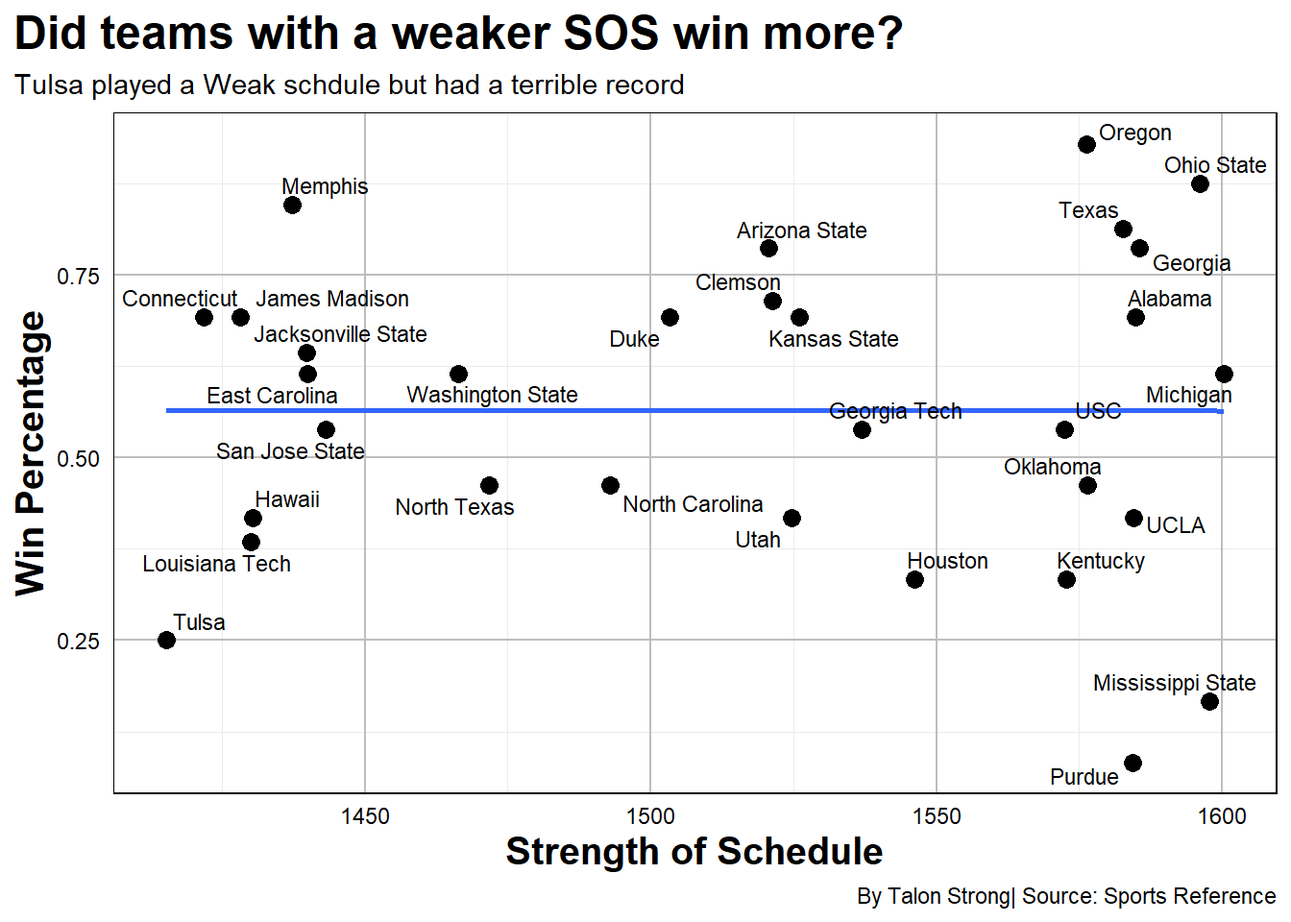
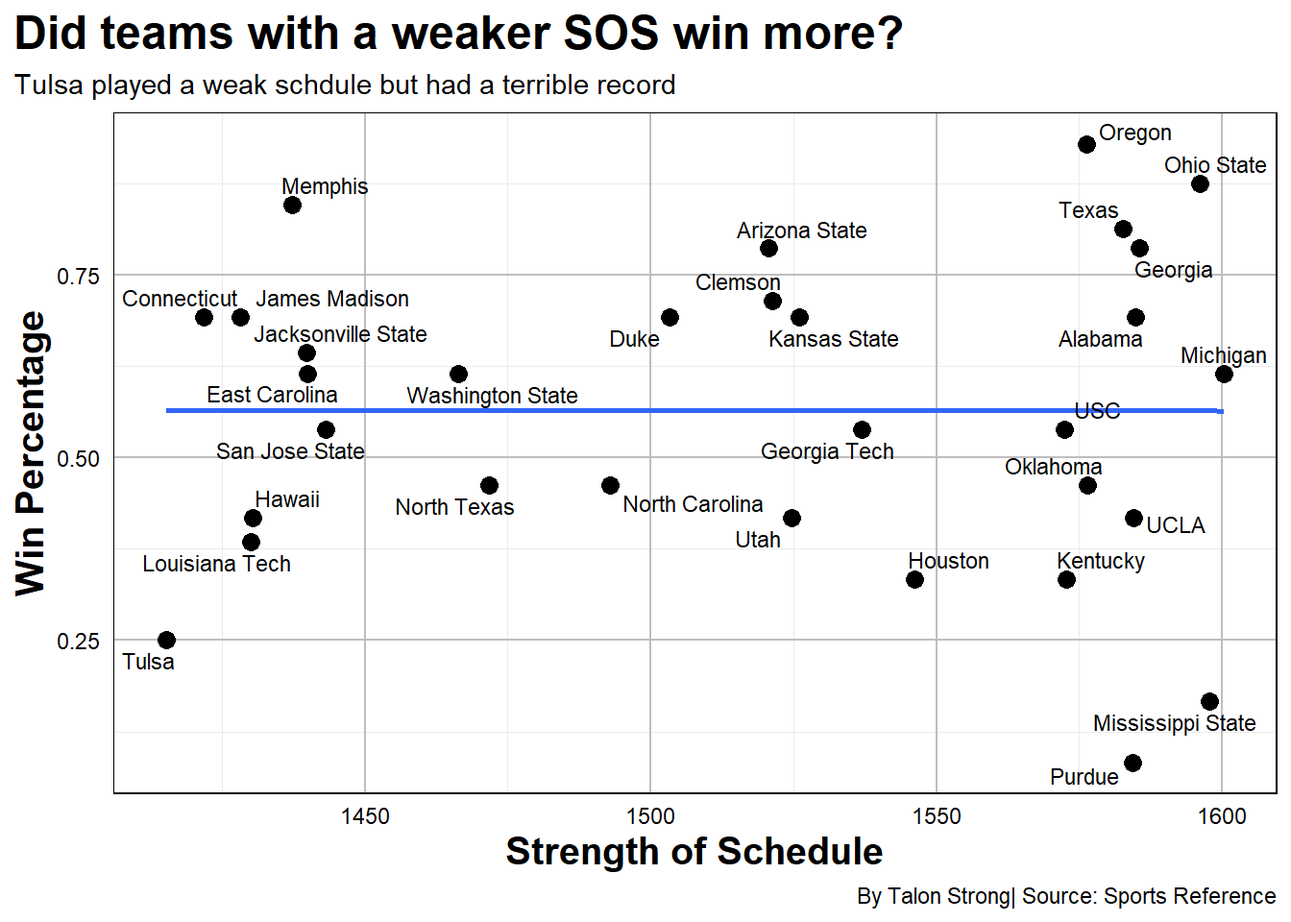
3rd commit

diff --git a/posts/strength-of-schedule-matters/index.html b/posts/strength-of-schedule-matters/index.html
@@ -194,7 +194,9 @@ pre > code.sourceCode > span > a:first-child::before { text-decoration: underlin
 
 
 
-<p>Story about strength of schedule</p>
+<p>The talk around college football during the playoff era even when it was just 4 teams was how much does strength of schedule matter.</p>
+<p>Fans, coaches, and analysts constantly argue about how much it should matter when judging a team. A hard schedule can reveal who is actually strong and battle tested, while an easy schedule can boost a team’s records without proving anything during the course of a season. After a full season, strength of schedule is the difference between teams that look similar on paper.</p>
+<p>But what I really want to know is how much does strength of schedule matter in terms of winning? Weather you’re a vastly talented team or a team with no talent, isn’t it just about playing who’s in front of you rather then their ranking? Does having a strong strength of schedule matter at the beginning of the season before anyone has played the games?</p>
 <div class="cell">
 <details class="code-fold">
 <summary>Code</summary>
@@ -211,25 +213,7 @@ pre > code.sourceCode > span > a:first-child::before { text-decoration: underlin
 <span id="cb1-11"><a href="#cb1-11" aria-hidden="true" tabindex="-1"></a><span class="fu">read_csv</span>(<span class="st">"SOS_percent.csv"</span>)</span></code><button title="Copy to Clipboard" class="code-copy-button"><i class="bi"></i></button></pre></div>
 </details>
 </div>
-<p>knklnlknlnln</p>
 <div class="cell">
-<div class="cell-output cell-output-stdout">
-<pre><code># A tibble: 12 × 5
-   Team              Tot_SOS  Rank OPPREC OPPWIN
-   &lt;chr&gt;               &lt;dbl&gt; &lt;dbl&gt; &lt;chr&gt;   &lt;dbl&gt;
- 1 Michigan            1600.     1 109-52  0.677
- 2 Mississippi State   1598.     2 96-52   0.649
- 3 Ohio State          1596.     3 137-60  0.695
- 4 Georgia             1586.     4 111-60  0.649
- 5 Alabama             1585.     5 102-55  0.650
- 6 UCLA                1584.     6 93-54   0.633
- 7 Purdue              1584.     7 94-55   0.631
- 8 Texas               1583.     8 122-72  0.629
- 9 Oklahoma            1576.     9 99-57   0.635
-10 Oregon              1576.    10 110-61  0.643
-11 Kentucky            1573.    11 87-59   0.596
-12 USC                 1572.    12 92-66   0.582</code></pre>
-</div>
 <div class="cell-output-display">
 <div>
 <figure class="figure">
@@ -238,36 +222,37 @@ pre > code.sourceCode > span > a:first-child::before { text-decoration: underlin
 </div>
 </div>
 </div>
-<p>dhdhiwdiuwdhiwu</p>
+<p>These were the top 12 teams with the hardest strength of schedule at the end of the 2024 college football season. 6 of these teams were in the Big Ten and 6 were in the SEC. Is that really surprising to anyone? No? Me either, because those are the 2 best conferences in college football and will be for the foreseeable future. With those 2 conferences being the best that means teams in those conferences will have stronger strength of schedules and records.</p>
+<p>Some of those teams in the top 12 had abysmal records, including Purdue and Mississippi State who finished with a combined 3-21 record and didn’t win a conference game. Now those teams aren’t the most talented and you can see why they struggled but what about teams with a weaker strength of schedule in weaker conferences.</p>
 <div class="cell">
 <details class="code-fold">
 <summary>Code</summary>
-<div class="sourceCode cell-code" id="cb3"><pre class="sourceCode r code-with-copy"><code class="sourceCode r"><span id="cb3-1"><a href="#cb3-1" aria-hidden="true" tabindex="-1"></a>SOS_1 <span class="ot">&lt;-</span> <span class="fu">read.csv</span>(<span class="st">"SOS_record.csv"</span>)</span>
-<span id="cb3-2"><a href="#cb3-2" aria-hidden="true" tabindex="-1"></a>SOS_2 <span class="ot">&lt;-</span> <span class="fu">read.csv</span>(<span class="st">"SOS_percent.csv"</span>)</span>
-<span id="cb3-3"><a href="#cb3-3" aria-hidden="true" tabindex="-1"></a></span>
-<span id="cb3-4"><a href="#cb3-4" aria-hidden="true" tabindex="-1"></a>combined_sos <span class="ot">&lt;-</span> <span class="fu">full_join</span>(SOS_1, SOS_2, <span class="at">by =</span> <span class="st">"Team"</span>)</span>
-<span id="cb3-5"><a href="#cb3-5" aria-hidden="true" tabindex="-1"></a></span>
-<span id="cb3-6"><a href="#cb3-6" aria-hidden="true" tabindex="-1"></a>teams <span class="ot">&lt;-</span> combined_sos <span class="sc">|&gt;</span></span>
-<span id="cb3-7"><a href="#cb3-7" aria-hidden="true" tabindex="-1"></a>  <span class="fu">filter</span> (Team <span class="sc">%in%</span> <span class="fu">c</span>(<span class="st">"Michigan"</span>, <span class="st">"Mississippi State"</span>, <span class="st">"Ohio State"</span>, <span class="st">"Georgia"</span>, <span class="st">"Alabama"</span>, <span class="st">"UCLA"</span>, <span class="st">"Purdue"</span>, <span class="st">"Texas"</span>, <span class="st">"Oklahoma"</span>, <span class="st">"Oregon"</span>, <span class="st">"Kentucky"</span>, <span class="st">"USC"</span>, <span class="st">"Tulsa"</span>, <span class="st">"Connecticut"</span>, <span class="st">"James Madison"</span>, <span class="st">"Louisiana Tech"</span>, <span class="st">"Hawaii"</span>, <span class="st">"Memphis"</span>, <span class="st">"Jacksonville State"</span>, <span class="st">"East Carolina"</span>, <span class="st">"San Jose State"</span>, <span class="st">"North Texas"</span>, <span class="st">"North Carolina"</span>, <span class="st">"Duke"</span>, <span class="st">"Kansas State"</span>, <span class="st">"Arizona State"</span>, <span class="st">"Clemson"</span>, <span class="st">"Georgia Tech"</span>, <span class="st">"Houston"</span>, <span class="st">"Utah"</span>, <span class="st">"Washington State"</span>))</span>
-<span id="cb3-8"><a href="#cb3-8" aria-hidden="true" tabindex="-1"></a></span>
-<span id="cb3-9"><a href="#cb3-9" aria-hidden="true" tabindex="-1"></a><span class="fu">ggplot</span>(teams, <span class="fu">aes</span>(<span class="at">x =</span> Tot_SOS, <span class="at">y =</span> Tot_Pct)) <span class="sc">+</span></span>
-<span id="cb3-10"><a href="#cb3-10" aria-hidden="true" tabindex="-1"></a>  <span class="fu">geom_point</span>(<span class="at">size =</span> <span class="dv">3</span>) <span class="sc">+</span></span>
-<span id="cb3-11"><a href="#cb3-11" aria-hidden="true" tabindex="-1"></a>  <span class="fu">geom_smooth</span>(<span class="at">method =</span> <span class="st">"lm"</span>, <span class="at">se =</span> <span class="cn">FALSE</span>, <span class="at">linewidth =</span> <span class="dv">1</span>) <span class="sc">+</span> </span>
-<span id="cb3-12"><a href="#cb3-12" aria-hidden="true" tabindex="-1"></a>  <span class="fu">geom_text_repel</span>(<span class="fu">aes</span>(<span class="at">label =</span> Team), <span class="at">size =</span> <span class="dv">3</span>, <span class="at">max.overlaps =</span> <span class="cn">Inf</span>) <span class="sc">+</span></span>
-<span id="cb3-13"><a href="#cb3-13" aria-hidden="true" tabindex="-1"></a>  <span class="fu">labs</span>(</span>
-<span id="cb3-14"><a href="#cb3-14" aria-hidden="true" tabindex="-1"></a>    <span class="at">title =</span> <span class="st">"Did teams with a weaker SOS win more? "</span>, <span class="at">subtitle =</span> <span class="st">"Tulsa played a Weak schdule but had a terrible record"</span>, <span class="at">caption =</span> <span class="st">"By Talon Strong| Source: Sports Reference"</span>, </span>
-<span id="cb3-15"><a href="#cb3-15" aria-hidden="true" tabindex="-1"></a>    <span class="at">x =</span> <span class="st">"Strength of Schedule"</span>,</span>
-<span id="cb3-16"><a href="#cb3-16" aria-hidden="true" tabindex="-1"></a>    <span class="at">y =</span> <span class="st">"Win Percentage"</span></span>
-<span id="cb3-17"><a href="#cb3-17" aria-hidden="true" tabindex="-1"></a>  ) <span class="sc">+</span></span>
-<span id="cb3-18"><a href="#cb3-18" aria-hidden="true" tabindex="-1"></a><span class="fu">theme_minimal</span>() <span class="sc">+</span></span>
-<span id="cb3-19"><a href="#cb3-19" aria-hidden="true" tabindex="-1"></a><span class="fu">theme</span>(</span>
-<span id="cb3-20"><a href="#cb3-20" aria-hidden="true" tabindex="-1"></a>    <span class="at">title =</span> <span class="fu">element_text</span>(<span class="at">color =</span> <span class="st">"black"</span>, <span class="at">size =</span> <span class="dv">15</span>, <span class="at">face =</span> <span class="st">"bold"</span>),</span>
-<span id="cb3-21"><a href="#cb3-21" aria-hidden="true" tabindex="-1"></a>    <span class="at">plot.background =</span> <span class="fu">element_rect</span>(<span class="at">fill =</span> <span class="st">"white"</span>),</span>
-<span id="cb3-22"><a href="#cb3-22" aria-hidden="true" tabindex="-1"></a>    <span class="at">panel.border =</span> <span class="fu">element_rect</span>(<span class="at">linetype =</span> <span class="st">"solid"</span>, <span class="at">fill =</span> <span class="cn">NA</span>),</span>
-<span id="cb3-23"><a href="#cb3-23" aria-hidden="true" tabindex="-1"></a>    <span class="at">panel.grid.major =</span> <span class="fu">element_line</span>(<span class="at">colour =</span> <span class="st">"grey"</span>),</span>
-<span id="cb3-24"><a href="#cb3-24" aria-hidden="true" tabindex="-1"></a>    <span class="at">axis.text =</span> <span class="fu">element_text</span>(<span class="at">color =</span> <span class="st">"black"</span>),</span>
-<span id="cb3-25"><a href="#cb3-25" aria-hidden="true" tabindex="-1"></a>    <span class="at">plot.title.position =</span> <span class="st">"plot"</span></span>
-<span id="cb3-26"><a href="#cb3-26" aria-hidden="true" tabindex="-1"></a>)</span></code><button title="Copy to Clipboard" class="code-copy-button"><i class="bi"></i></button></pre></div>
+<div class="sourceCode cell-code" id="cb2"><pre class="sourceCode r code-with-copy"><code class="sourceCode r"><span id="cb2-1"><a href="#cb2-1" aria-hidden="true" tabindex="-1"></a>SOS_1 <span class="ot">&lt;-</span> <span class="fu">read.csv</span>(<span class="st">"SOS_record.csv"</span>)</span>
+<span id="cb2-2"><a href="#cb2-2" aria-hidden="true" tabindex="-1"></a>SOS_2 <span class="ot">&lt;-</span> <span class="fu">read.csv</span>(<span class="st">"SOS_percent.csv"</span>)</span>
+<span id="cb2-3"><a href="#cb2-3" aria-hidden="true" tabindex="-1"></a></span>
+<span id="cb2-4"><a href="#cb2-4" aria-hidden="true" tabindex="-1"></a>combined_sos <span class="ot">&lt;-</span> <span class="fu">full_join</span>(SOS_1, SOS_2, <span class="at">by =</span> <span class="st">"Team"</span>)</span>
+<span id="cb2-5"><a href="#cb2-5" aria-hidden="true" tabindex="-1"></a></span>
+<span id="cb2-6"><a href="#cb2-6" aria-hidden="true" tabindex="-1"></a>teams <span class="ot">&lt;-</span> combined_sos <span class="sc">|&gt;</span></span>
+<span id="cb2-7"><a href="#cb2-7" aria-hidden="true" tabindex="-1"></a>  <span class="fu">filter</span> (Team <span class="sc">%in%</span> <span class="fu">c</span>(<span class="st">"Michigan"</span>, <span class="st">"Mississippi State"</span>, <span class="st">"Ohio State"</span>, <span class="st">"Georgia"</span>, <span class="st">"Alabama"</span>, <span class="st">"UCLA"</span>, <span class="st">"Purdue"</span>, <span class="st">"Texas"</span>, <span class="st">"Oklahoma"</span>, <span class="st">"Oregon"</span>, <span class="st">"Kentucky"</span>, <span class="st">"USC"</span>, <span class="st">"Tulsa"</span>, <span class="st">"Connecticut"</span>, <span class="st">"James Madison"</span>, <span class="st">"Louisiana Tech"</span>, <span class="st">"Hawaii"</span>, <span class="st">"Memphis"</span>, <span class="st">"Jacksonville State"</span>, <span class="st">"East Carolina"</span>, <span class="st">"San Jose State"</span>, <span class="st">"North Texas"</span>, <span class="st">"North Carolina"</span>, <span class="st">"Duke"</span>, <span class="st">"Kansas State"</span>, <span class="st">"Arizona State"</span>, <span class="st">"Clemson"</span>, <span class="st">"Georgia Tech"</span>, <span class="st">"Houston"</span>, <span class="st">"Utah"</span>, <span class="st">"Washington State"</span>))</span>
+<span id="cb2-8"><a href="#cb2-8" aria-hidden="true" tabindex="-1"></a></span>
+<span id="cb2-9"><a href="#cb2-9" aria-hidden="true" tabindex="-1"></a><span class="fu">ggplot</span>(teams, <span class="fu">aes</span>(<span class="at">x =</span> Tot_SOS, <span class="at">y =</span> Tot_Pct)) <span class="sc">+</span></span>
+<span id="cb2-10"><a href="#cb2-10" aria-hidden="true" tabindex="-1"></a>  <span class="fu">geom_point</span>(<span class="at">size =</span> <span class="dv">3</span>) <span class="sc">+</span></span>
+<span id="cb2-11"><a href="#cb2-11" aria-hidden="true" tabindex="-1"></a>  <span class="fu">geom_smooth</span>(<span class="at">method =</span> <span class="st">"lm"</span>, <span class="at">se =</span> <span class="cn">FALSE</span>, <span class="at">linewidth =</span> <span class="dv">1</span>) <span class="sc">+</span> </span>
+<span id="cb2-12"><a href="#cb2-12" aria-hidden="true" tabindex="-1"></a>  <span class="fu">geom_text_repel</span>(<span class="fu">aes</span>(<span class="at">label =</span> Team), <span class="at">size =</span> <span class="dv">3</span>, <span class="at">max.overlaps =</span> <span class="cn">Inf</span>) <span class="sc">+</span></span>
+<span id="cb2-13"><a href="#cb2-13" aria-hidden="true" tabindex="-1"></a>  <span class="fu">labs</span>(</span>
+<span id="cb2-14"><a href="#cb2-14" aria-hidden="true" tabindex="-1"></a>    <span class="at">title =</span> <span class="st">"Did teams with a weaker SOS win more? "</span>, <span class="at">subtitle =</span> <span class="st">"Tulsa played a weak schdule but had a terrible record"</span>, <span class="at">caption =</span> <span class="st">"By Talon Strong| Source: Sports Reference"</span>, </span>
+<span id="cb2-15"><a href="#cb2-15" aria-hidden="true" tabindex="-1"></a>    <span class="at">x =</span> <span class="st">"Strength of Schedule"</span>,</span>
+<span id="cb2-16"><a href="#cb2-16" aria-hidden="true" tabindex="-1"></a>    <span class="at">y =</span> <span class="st">"Win Percentage"</span></span>
+<span id="cb2-17"><a href="#cb2-17" aria-hidden="true" tabindex="-1"></a>  ) <span class="sc">+</span></span>
+<span id="cb2-18"><a href="#cb2-18" aria-hidden="true" tabindex="-1"></a><span class="fu">theme_minimal</span>() <span class="sc">+</span></span>
+<span id="cb2-19"><a href="#cb2-19" aria-hidden="true" tabindex="-1"></a><span class="fu">theme</span>(</span>
+<span id="cb2-20"><a href="#cb2-20" aria-hidden="true" tabindex="-1"></a>    <span class="at">title =</span> <span class="fu">element_text</span>(<span class="at">color =</span> <span class="st">"black"</span>, <span class="at">size =</span> <span class="dv">15</span>, <span class="at">face =</span> <span class="st">"bold"</span>),</span>
+<span id="cb2-21"><a href="#cb2-21" aria-hidden="true" tabindex="-1"></a>    <span class="at">plot.background =</span> <span class="fu">element_rect</span>(<span class="at">fill =</span> <span class="st">"white"</span>),</span>
+<span id="cb2-22"><a href="#cb2-22" aria-hidden="true" tabindex="-1"></a>    <span class="at">panel.border =</span> <span class="fu">element_rect</span>(<span class="at">linetype =</span> <span class="st">"solid"</span>, <span class="at">fill =</span> <span class="cn">NA</span>),</span>
+<span id="cb2-23"><a href="#cb2-23" aria-hidden="true" tabindex="-1"></a>    <span class="at">panel.grid.major =</span> <span class="fu">element_line</span>(<span class="at">colour =</span> <span class="st">"grey"</span>),</span>
+<span id="cb2-24"><a href="#cb2-24" aria-hidden="true" tabindex="-1"></a>    <span class="at">axis.text =</span> <span class="fu">element_text</span>(<span class="at">color =</span> <span class="st">"black"</span>),</span>
+<span id="cb2-25"><a href="#cb2-25" aria-hidden="true" tabindex="-1"></a>    <span class="at">plot.title.position =</span> <span class="st">"plot"</span></span>
+<span id="cb2-26"><a href="#cb2-26" aria-hidden="true" tabindex="-1"></a>)</span></code><button title="Copy to Clipboard" class="code-copy-button"><i class="bi"></i></button></pre></div>
 </details>
 <div class="cell-output-display">
 <div>
@@ -277,63 +262,64 @@ pre > code.sourceCode > span > a:first-child::before { text-decoration: underlin
 </div>
 </div>
 </div>
-<p>USCBSIUCNSC</p>
+<p>I’ve discussed the top 12 teams in terms of strength of schedule and how they were in the 2 best conferences but what about teams that aren’t in those juggernaut conferences? For those teams outside the Big Ten and SEC, strength of schedule becomes a different conversation. Lower conferences can often play weaker overall competition, which means their records can look better on the surface when they win. What becomes an interesting conversation is that some of these programs still lose and lose often even with a weaker schedule.</p>
+<p>Tulsa is in the American Conference and had one of the lower strength of schedule ratings yet they went 3-9 in 2024. Teams in the middle of the rating system like North Carolina and Arizona state had different seasons all together. North Carolina in the ACC went 6-7 and Arizona State won the Big 12 and had a first round bye in the College Football Playoff.</p>
 <div class="cell">
 <details class="code-fold">
 <summary>Code</summary>
-<div class="sourceCode cell-code" id="cb4"><pre class="sourceCode r code-with-copy"><code class="sourceCode r"><span id="cb4-1"><a href="#cb4-1" aria-hidden="true" tabindex="-1"></a>teams_top <span class="ot">&lt;-</span> teams <span class="sc">%&gt;%</span> </span>
-<span id="cb4-2"><a href="#cb4-2" aria-hidden="true" tabindex="-1"></a>  <span class="fu">slice</span>(<span class="dv">1</span><span class="sc">:</span><span class="dv">15</span>)</span>
-<span id="cb4-3"><a href="#cb4-3" aria-hidden="true" tabindex="-1"></a>teams_bottom <span class="ot">&lt;-</span> teams <span class="sc">%&gt;%</span> </span>
-<span id="cb4-4"><a href="#cb4-4" aria-hidden="true" tabindex="-1"></a>  <span class="fu">slice</span>(<span class="dv">16</span><span class="sc">:</span><span class="dv">31</span>)</span>
-<span id="cb4-5"><a href="#cb4-5" aria-hidden="true" tabindex="-1"></a></span>
-<span id="cb4-6"><a href="#cb4-6" aria-hidden="true" tabindex="-1"></a>my_theme <span class="ot">&lt;-</span> <span class="fu">theme</span>(</span>
-<span id="cb4-7"><a href="#cb4-7" aria-hidden="true" tabindex="-1"></a>  <span class="at">title =</span> <span class="fu">element_text</span>(<span class="at">color =</span> <span class="st">"black"</span>, <span class="at">size =</span> <span class="dv">16</span>, <span class="at">face =</span> <span class="st">"bold"</span>),</span>
-<span id="cb4-8"><a href="#cb4-8" aria-hidden="true" tabindex="-1"></a>  <span class="at">plot.background =</span> <span class="fu">element_rect</span>(<span class="at">fill =</span> <span class="st">"white"</span>),</span>
-<span id="cb4-9"><a href="#cb4-9" aria-hidden="true" tabindex="-1"></a>  <span class="at">panel.border =</span> <span class="fu">element_rect</span>(<span class="at">linetype =</span> <span class="st">"solid"</span>, <span class="at">fill =</span> <span class="cn">NA</span>),</span>
-<span id="cb4-10"><a href="#cb4-10" aria-hidden="true" tabindex="-1"></a>  <span class="at">panel.grid.major =</span> <span class="fu">element_line</span>(<span class="at">colour =</span> <span class="st">"grey"</span>),</span>
-<span id="cb4-11"><a href="#cb4-11" aria-hidden="true" tabindex="-1"></a>  <span class="at">axis.text =</span> <span class="fu">element_text</span>(<span class="at">color =</span> <span class="st">"black"</span>),</span>
-<span id="cb4-12"><a href="#cb4-12" aria-hidden="true" tabindex="-1"></a>  <span class="at">plot.title.position =</span> <span class="st">"plot"</span></span>
-<span id="cb4-13"><a href="#cb4-13" aria-hidden="true" tabindex="-1"></a>)</span>
-<span id="cb4-14"><a href="#cb4-14" aria-hidden="true" tabindex="-1"></a></span>
-<span id="cb4-15"><a href="#cb4-15" aria-hidden="true" tabindex="-1"></a> p1 <span class="ot">&lt;-</span> <span class="fu">ggplot</span>(teams_top, </span>
-<span id="cb4-16"><a href="#cb4-16" aria-hidden="true" tabindex="-1"></a>       <span class="fu">aes</span>(<span class="at">y =</span> <span class="fu">reorder</span>(Team, Tot_Pct),</span>
-<span id="cb4-17"><a href="#cb4-17" aria-hidden="true" tabindex="-1"></a>           <span class="at">x =</span> OPPWIN,</span>
-<span id="cb4-18"><a href="#cb4-18" aria-hidden="true" tabindex="-1"></a>           <span class="at">xend =</span> Tot_Pct)) <span class="sc">+</span></span>
-<span id="cb4-19"><a href="#cb4-19" aria-hidden="true" tabindex="-1"></a>  <span class="fu">geom_dumbbell</span>(</span>
-<span id="cb4-20"><a href="#cb4-20" aria-hidden="true" tabindex="-1"></a>    <span class="at">color =</span> <span class="st">"gray70"</span>,</span>
-<span id="cb4-21"><a href="#cb4-21" aria-hidden="true" tabindex="-1"></a>    <span class="at">size =</span> <span class="fl">1.5</span>,</span>
-<span id="cb4-22"><a href="#cb4-22" aria-hidden="true" tabindex="-1"></a>    <span class="at">colour_x =</span> <span class="st">"red"</span>,</span>
-<span id="cb4-23"><a href="#cb4-23" aria-hidden="true" tabindex="-1"></a>    <span class="at">colour_xend =</span> <span class="st">"blue"</span></span>
-<span id="cb4-24"><a href="#cb4-24" aria-hidden="true" tabindex="-1"></a>  ) <span class="sc">+</span></span>
-<span id="cb4-25"><a href="#cb4-25" aria-hidden="true" tabindex="-1"></a>  <span class="fu">labs</span>(</span>
-<span id="cb4-26"><a href="#cb4-26" aria-hidden="true" tabindex="-1"></a>    <span class="at">title =</span> <span class="st">"Team win percentage vs opponent win percentage"</span>,</span>
-<span id="cb4-27"><a href="#cb4-27" aria-hidden="true" tabindex="-1"></a>    <span class="at">subtitle =</span> <span class="st">"Teams who had a higher opponent win percentage (red) lost more"</span>, <span class="at">caption =</span> <span class="st">"By Talon Strong| Source: Sports Reference"</span>, </span>
-<span id="cb4-28"><a href="#cb4-28" aria-hidden="true" tabindex="-1"></a>    <span class="at">x =</span> <span class="st">"Win Percentage"</span>,</span>
-<span id="cb4-29"><a href="#cb4-29" aria-hidden="true" tabindex="-1"></a>    <span class="at">y =</span> <span class="st">""</span></span>
-<span id="cb4-30"><a href="#cb4-30" aria-hidden="true" tabindex="-1"></a>  ) <span class="sc">+</span></span>
-<span id="cb4-31"><a href="#cb4-31" aria-hidden="true" tabindex="-1"></a>  <span class="fu">theme_minimal</span>() <span class="sc">+</span></span>
-<span id="cb4-32"><a href="#cb4-32" aria-hidden="true" tabindex="-1"></a>   my_theme</span>
-<span id="cb4-33"><a href="#cb4-33" aria-hidden="true" tabindex="-1"></a> </span>
-<span id="cb4-34"><a href="#cb4-34" aria-hidden="true" tabindex="-1"></a> p2 <span class="ot">&lt;-</span> <span class="fu">ggplot</span>(teams_bottom, </span>
-<span id="cb4-35"><a href="#cb4-35" aria-hidden="true" tabindex="-1"></a>       <span class="fu">aes</span>(<span class="at">y =</span> <span class="fu">reorder</span>(Team, Tot_Pct),</span>
-<span id="cb4-36"><a href="#cb4-36" aria-hidden="true" tabindex="-1"></a>           <span class="at">x =</span> OPPWIN,</span>
-<span id="cb4-37"><a href="#cb4-37" aria-hidden="true" tabindex="-1"></a>           <span class="at">xend =</span> Tot_Pct)) <span class="sc">+</span></span>
-<span id="cb4-38"><a href="#cb4-38" aria-hidden="true" tabindex="-1"></a>  <span class="fu">geom_dumbbell</span>(</span>
-<span id="cb4-39"><a href="#cb4-39" aria-hidden="true" tabindex="-1"></a>    <span class="at">color =</span> <span class="st">"gray70"</span>,</span>
-<span id="cb4-40"><a href="#cb4-40" aria-hidden="true" tabindex="-1"></a>    <span class="at">size =</span> <span class="fl">1.5</span>,</span>
-<span id="cb4-41"><a href="#cb4-41" aria-hidden="true" tabindex="-1"></a>    <span class="at">colour_x =</span> <span class="st">"red"</span>,</span>
-<span id="cb4-42"><a href="#cb4-42" aria-hidden="true" tabindex="-1"></a>    <span class="at">colour_xend =</span> <span class="st">"blue"</span></span>
-<span id="cb4-43"><a href="#cb4-43" aria-hidden="true" tabindex="-1"></a>  ) <span class="sc">+</span></span>
-<span id="cb4-44"><a href="#cb4-44" aria-hidden="true" tabindex="-1"></a>  <span class="fu">labs</span>(</span>
-<span id="cb4-45"><a href="#cb4-45" aria-hidden="true" tabindex="-1"></a>    <span class="at">title =</span> <span class="st">""</span>, </span>
-<span id="cb4-46"><a href="#cb4-46" aria-hidden="true" tabindex="-1"></a>    <span class="at">subtitle =</span> <span class="st">""</span>, </span>
-<span id="cb4-47"><a href="#cb4-47" aria-hidden="true" tabindex="-1"></a>    <span class="at">x =</span> <span class="st">"Win Percentage"</span>,</span>
-<span id="cb4-48"><a href="#cb4-48" aria-hidden="true" tabindex="-1"></a>    <span class="at">y =</span> <span class="st">""</span></span>
-<span id="cb4-49"><a href="#cb4-49" aria-hidden="true" tabindex="-1"></a>  ) <span class="sc">+</span></span>
-<span id="cb4-50"><a href="#cb4-50" aria-hidden="true" tabindex="-1"></a>  <span class="fu">theme_minimal</span>() <span class="sc">+</span></span>
-<span id="cb4-51"><a href="#cb4-51" aria-hidden="true" tabindex="-1"></a> my_theme</span>
-<span id="cb4-52"><a href="#cb4-52" aria-hidden="true" tabindex="-1"></a>    </span>
-<span id="cb4-53"><a href="#cb4-53" aria-hidden="true" tabindex="-1"></a> p1<span class="sc">+</span>p2</span></code><button title="Copy to Clipboard" class="code-copy-button"><i class="bi"></i></button></pre></div>
+<div class="sourceCode cell-code" id="cb3"><pre class="sourceCode r code-with-copy"><code class="sourceCode r"><span id="cb3-1"><a href="#cb3-1" aria-hidden="true" tabindex="-1"></a>teams_top <span class="ot">&lt;-</span> teams <span class="sc">%&gt;%</span> </span>
+<span id="cb3-2"><a href="#cb3-2" aria-hidden="true" tabindex="-1"></a>  <span class="fu">slice</span>(<span class="dv">1</span><span class="sc">:</span><span class="dv">15</span>)</span>
+<span id="cb3-3"><a href="#cb3-3" aria-hidden="true" tabindex="-1"></a>teams_bottom <span class="ot">&lt;-</span> teams <span class="sc">%&gt;%</span> </span>
+<span id="cb3-4"><a href="#cb3-4" aria-hidden="true" tabindex="-1"></a>  <span class="fu">slice</span>(<span class="dv">16</span><span class="sc">:</span><span class="dv">31</span>)</span>
+<span id="cb3-5"><a href="#cb3-5" aria-hidden="true" tabindex="-1"></a></span>
+<span id="cb3-6"><a href="#cb3-6" aria-hidden="true" tabindex="-1"></a>my_theme <span class="ot">&lt;-</span> <span class="fu">theme</span>(</span>
+<span id="cb3-7"><a href="#cb3-7" aria-hidden="true" tabindex="-1"></a>  <span class="at">title =</span> <span class="fu">element_text</span>(<span class="at">color =</span> <span class="st">"black"</span>, <span class="at">size =</span> <span class="dv">16</span>, <span class="at">face =</span> <span class="st">"bold"</span>),</span>
+<span id="cb3-8"><a href="#cb3-8" aria-hidden="true" tabindex="-1"></a>  <span class="at">plot.background =</span> <span class="fu">element_rect</span>(<span class="at">fill =</span> <span class="st">"white"</span>),</span>
+<span id="cb3-9"><a href="#cb3-9" aria-hidden="true" tabindex="-1"></a>  <span class="at">panel.border =</span> <span class="fu">element_rect</span>(<span class="at">linetype =</span> <span class="st">"solid"</span>, <span class="at">fill =</span> <span class="cn">NA</span>),</span>
+<span id="cb3-10"><a href="#cb3-10" aria-hidden="true" tabindex="-1"></a>  <span class="at">panel.grid.major =</span> <span class="fu">element_line</span>(<span class="at">colour =</span> <span class="st">"grey"</span>),</span>
+<span id="cb3-11"><a href="#cb3-11" aria-hidden="true" tabindex="-1"></a>  <span class="at">axis.text =</span> <span class="fu">element_text</span>(<span class="at">color =</span> <span class="st">"black"</span>),</span>
+<span id="cb3-12"><a href="#cb3-12" aria-hidden="true" tabindex="-1"></a>  <span class="at">plot.title.position =</span> <span class="st">"plot"</span></span>
+<span id="cb3-13"><a href="#cb3-13" aria-hidden="true" tabindex="-1"></a>)</span>
+<span id="cb3-14"><a href="#cb3-14" aria-hidden="true" tabindex="-1"></a></span>
+<span id="cb3-15"><a href="#cb3-15" aria-hidden="true" tabindex="-1"></a> p1 <span class="ot">&lt;-</span> <span class="fu">ggplot</span>(teams_top, </span>
+<span id="cb3-16"><a href="#cb3-16" aria-hidden="true" tabindex="-1"></a>       <span class="fu">aes</span>(<span class="at">y =</span> <span class="fu">reorder</span>(Team, Tot_Pct),</span>
+<span id="cb3-17"><a href="#cb3-17" aria-hidden="true" tabindex="-1"></a>           <span class="at">x =</span> OPPWIN,</span>
+<span id="cb3-18"><a href="#cb3-18" aria-hidden="true" tabindex="-1"></a>           <span class="at">xend =</span> Tot_Pct)) <span class="sc">+</span></span>
+<span id="cb3-19"><a href="#cb3-19" aria-hidden="true" tabindex="-1"></a>  <span class="fu">geom_dumbbell</span>(</span>
+<span id="cb3-20"><a href="#cb3-20" aria-hidden="true" tabindex="-1"></a>    <span class="at">color =</span> <span class="st">"gray70"</span>,</span>
+<span id="cb3-21"><a href="#cb3-21" aria-hidden="true" tabindex="-1"></a>    <span class="at">size =</span> <span class="fl">1.5</span>,</span>
+<span id="cb3-22"><a href="#cb3-22" aria-hidden="true" tabindex="-1"></a>    <span class="at">colour_x =</span> <span class="st">"red"</span>,</span>
+<span id="cb3-23"><a href="#cb3-23" aria-hidden="true" tabindex="-1"></a>    <span class="at">colour_xend =</span> <span class="st">"blue"</span></span>
+<span id="cb3-24"><a href="#cb3-24" aria-hidden="true" tabindex="-1"></a>  ) <span class="sc">+</span></span>
+<span id="cb3-25"><a href="#cb3-25" aria-hidden="true" tabindex="-1"></a>  <span class="fu">labs</span>(</span>
+<span id="cb3-26"><a href="#cb3-26" aria-hidden="true" tabindex="-1"></a>    <span class="at">title =</span> <span class="st">"Team win percentage vs opponent win percentage"</span>,</span>
+<span id="cb3-27"><a href="#cb3-27" aria-hidden="true" tabindex="-1"></a>    <span class="at">subtitle =</span> <span class="st">"Teams who had a higher opponent win percentage (red) lost more"</span>, <span class="at">caption =</span> <span class="st">"By Talon Strong| Source: Sports Reference"</span>, </span>
+<span id="cb3-28"><a href="#cb3-28" aria-hidden="true" tabindex="-1"></a>    <span class="at">x =</span> <span class="st">"Win Percentage"</span>,</span>
+<span id="cb3-29"><a href="#cb3-29" aria-hidden="true" tabindex="-1"></a>    <span class="at">y =</span> <span class="st">""</span></span>
+<span id="cb3-30"><a href="#cb3-30" aria-hidden="true" tabindex="-1"></a>  ) <span class="sc">+</span></span>
+<span id="cb3-31"><a href="#cb3-31" aria-hidden="true" tabindex="-1"></a>  <span class="fu">theme_minimal</span>() <span class="sc">+</span></span>
+<span id="cb3-32"><a href="#cb3-32" aria-hidden="true" tabindex="-1"></a>   my_theme</span>
+<span id="cb3-33"><a href="#cb3-33" aria-hidden="true" tabindex="-1"></a> </span>
+<span id="cb3-34"><a href="#cb3-34" aria-hidden="true" tabindex="-1"></a> p2 <span class="ot">&lt;-</span> <span class="fu">ggplot</span>(teams_bottom, </span>
+<span id="cb3-35"><a href="#cb3-35" aria-hidden="true" tabindex="-1"></a>       <span class="fu">aes</span>(<span class="at">y =</span> <span class="fu">reorder</span>(Team, Tot_Pct),</span>
+<span id="cb3-36"><a href="#cb3-36" aria-hidden="true" tabindex="-1"></a>           <span class="at">x =</span> OPPWIN,</span>
+<span id="cb3-37"><a href="#cb3-37" aria-hidden="true" tabindex="-1"></a>           <span class="at">xend =</span> Tot_Pct)) <span class="sc">+</span></span>
+<span id="cb3-38"><a href="#cb3-38" aria-hidden="true" tabindex="-1"></a>  <span class="fu">geom_dumbbell</span>(</span>
+<span id="cb3-39"><a href="#cb3-39" aria-hidden="true" tabindex="-1"></a>    <span class="at">color =</span> <span class="st">"gray70"</span>,</span>
+<span id="cb3-40"><a href="#cb3-40" aria-hidden="true" tabindex="-1"></a>    <span class="at">size =</span> <span class="fl">1.5</span>,</span>
+<span id="cb3-41"><a href="#cb3-41" aria-hidden="true" tabindex="-1"></a>    <span class="at">colour_x =</span> <span class="st">"red"</span>,</span>
+<span id="cb3-42"><a href="#cb3-42" aria-hidden="true" tabindex="-1"></a>    <span class="at">colour_xend =</span> <span class="st">"blue"</span></span>
+<span id="cb3-43"><a href="#cb3-43" aria-hidden="true" tabindex="-1"></a>  ) <span class="sc">+</span></span>
+<span id="cb3-44"><a href="#cb3-44" aria-hidden="true" tabindex="-1"></a>  <span class="fu">labs</span>(</span>
+<span id="cb3-45"><a href="#cb3-45" aria-hidden="true" tabindex="-1"></a>    <span class="at">title =</span> <span class="st">""</span>, </span>
+<span id="cb3-46"><a href="#cb3-46" aria-hidden="true" tabindex="-1"></a>    <span class="at">subtitle =</span> <span class="st">""</span>, </span>
+<span id="cb3-47"><a href="#cb3-47" aria-hidden="true" tabindex="-1"></a>    <span class="at">x =</span> <span class="st">"Win Percentage"</span>,</span>
+<span id="cb3-48"><a href="#cb3-48" aria-hidden="true" tabindex="-1"></a>    <span class="at">y =</span> <span class="st">""</span></span>
+<span id="cb3-49"><a href="#cb3-49" aria-hidden="true" tabindex="-1"></a>  ) <span class="sc">+</span></span>
+<span id="cb3-50"><a href="#cb3-50" aria-hidden="true" tabindex="-1"></a>  <span class="fu">theme_minimal</span>() <span class="sc">+</span></span>
+<span id="cb3-51"><a href="#cb3-51" aria-hidden="true" tabindex="-1"></a> my_theme</span>
+<span id="cb3-52"><a href="#cb3-52" aria-hidden="true" tabindex="-1"></a>    </span>
+<span id="cb3-53"><a href="#cb3-53" aria-hidden="true" tabindex="-1"></a> p1<span class="sc">+</span>p2</span></code><button title="Copy to Clipboard" class="code-copy-button"><i class="bi"></i></button></pre></div>
 </details>
 <div class="cell-output-display">
 <div>
@@ -343,6 +329,8 @@ pre > code.sourceCode > span > a:first-child::before { text-decoration: underlin
 </div>
 </div>
 </div>
+<p>Strength of schedule and opponent win percentage obviously can have an impact on winning and losing, but they are not perfect or the only indicators of a team’s record. Team’s facing stronger opponents usually makes the season in whole more demanding and challenging. Those teams with tougher schedules will often take more of those losses because every week is always a test or battle. At the same time, this do not explain everything. Every season teams with high opponent win percentages or stronger strength of schedule still find ways to win and sometimes go undefeated. They finish strong because they have better talent, coaching, and depth.</p>
+<p>The teams with easier schedules and lower opponent win percentage still struggle because they lack the fundamentals of a good team. So all in all strength of schedule does matter in terms of a teams ceiling and floor, it is absolute not a direct correlation. There is so much more that goes into then that but it can always benefits a team in terms of wins and losses.</p>
 
 
 

diff --git a/index.html b/index.html
@@ -207,10 +207,10 @@ window.Quarto = {
 
 <div class="quarto-listing quarto-listing-container-default" id="listing-listing">
 <div class="list quarto-listing-default">
-<div class="quarto-post image-right" data-index="0" data-categories="Zm9vdGJhbGwlMkNuY2FhJTJDZGF0YSUyQ3Nvcw==" data-listing-date-sort="1765260000000" data-listing-file-modified-sort="1765254248065" data-listing-date-modified-sort="NaN" data-listing-reading-time-sort="4" data-listing-word-count-sort="723">
+<div class="quarto-post image-right" data-index="0" data-categories="Zm9vdGJhbGwlMkNuY2FhJTJDZGF0YSUyQ3Nvcw==" data-listing-date-sort="1765260000000" data-listing-file-modified-sort="1765260403254" data-listing-date-modified-sort="NaN" data-listing-reading-time-sort="7" data-listing-word-count-sort="1340">
 <div class="thumbnail"><a href="./posts/strength-of-schedule-matters/index.html" class="no-external">
 
-<img loading="lazy" src="./posts/strength-of-schedule-matters/Dumbell Graph.png" class="thumbnail-image">
+<img loading="lazy" src="./posts/strength-of-schedule-matters/Scatterplot.png" class="thumbnail-image">
 
 </a></div>
 <div class="body">
@@ -229,7 +229,7 @@ window.Quarto = {
 
 </div>
 <div class="delink listing-description"><a href="./posts/strength-of-schedule-matters/index.html" class="no-external">
-Story about strength of schedule
+The talk around college football during the playoff era even when it was just 4 teams was how much does strength of schedule matter.
 </a></div>
 </div>
 <div class="metadata">
